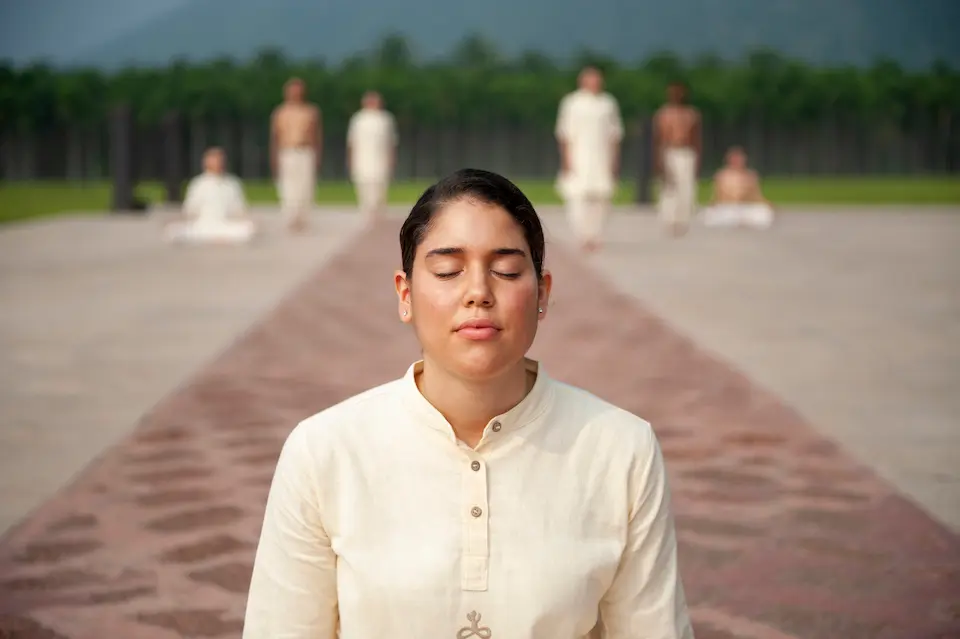
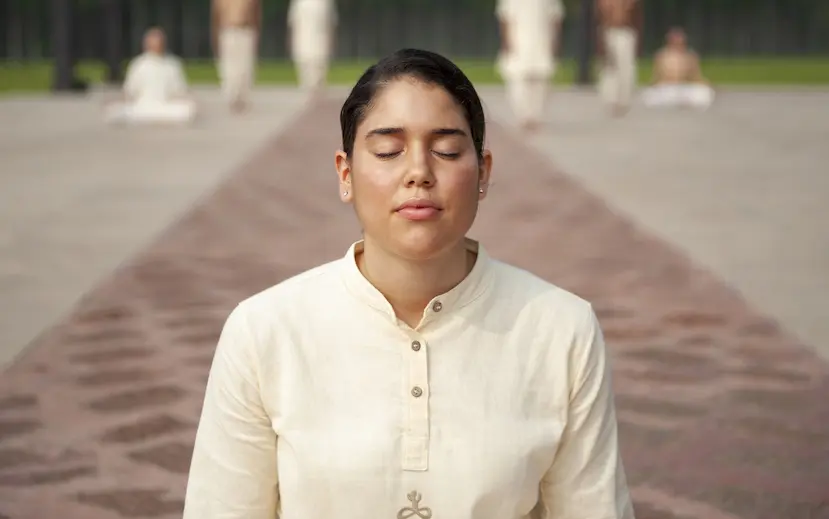
Refine milestone unlock notifications

diff --git a/js/progress.js b/js/progress.js
@@ -458,7 +458,7 @@ async function toggleTodayPractice() {
         total_days: practiceDates.length,
         milestone: milestoneState.milestone.title,
       });
-      showMilestoneUnlockToast(previousMilestoneState, milestoneState);
+      await maybeHandleMilestoneUnlock(previousMilestoneState, milestoneState);
       await maybeSendProgressNotification();
     }
 
@@ -580,7 +580,7 @@ function openSheet(date, isActive) {
           total_days: practiceDates.length,
           milestone: milestoneState.milestone.title,
         });
-        showMilestoneUnlockToast(previousMilestoneState, milestoneState);
+        await maybeHandleMilestoneUnlock(previousMilestoneState, milestoneState);
         await maybeSendProgressNotification();
       }
 
@@ -617,12 +617,69 @@ function showToast(message) {
   }, 2000);
 }
 
-function showMilestoneUnlockToast(previousState, nextState) {
+function getOrCreateMilestoneUnlockBanner() {
+  let banner = document.getElementById("milestoneUnlockBanner");
+
+  if (banner) {
+    return banner;
+  }
+
+  banner = document.createElement("div");
+  banner.id = "milestoneUnlockBanner";
+  banner.className = "milestone-unlock-banner hidden";
+  banner.innerHTML = `
+    <p class="milestone-unlock-banner-title">Congratulations!</p>
+    <p class="milestone-unlock-banner-text"></p>
+  `;
+  document.body.appendChild(banner);
+  return banner;
+}
+
+function showMilestoneUnlockBanner(nextState) {
+  const banner = getOrCreateMilestoneUnlockBanner();
+  const textEl = banner.querySelector(".milestone-unlock-banner-text");
+
+  if (textEl) {
+    textEl.textContent = `You unlocked ${nextState.milestone.level}: ${nextState.milestone.title}.`;
+  }
+
+  banner.classList.remove("hidden", "show");
+
+  setTimeout(() => {
+    banner.classList.add("show");
+  }, 10);
+
+  setTimeout(() => {
+    banner.classList.remove("show");
+
+    setTimeout(() => {
+      banner.classList.add("hidden");
+    }, 260);
+  }, 3200);
+}
+async function maybeSendMilestoneUnlockNotification(nextState) {
+  const notificationsApi = window.pwaNotifications;
+  if (!notificationsApi?.isSupported?.() || notificationsApi.getPermission?.() !== "granted") {
+    return;
+  }
+
+  try {
+    await notificationsApi.sendNotification(
+      "YogaUnnati",
+      `Congratulations! You unlocked ${nextState.milestone.title}.`,
+    );
+  } catch (error) {
+    console.error("Milestone unlock notification error:", error);
+  }
+}
+
+async function maybeHandleMilestoneUnlock(previousState, nextState) {
   if (!previousState || !nextState || nextState.index <= previousState.index) {
     return;
   }
 
-  showToast(`New level unlocked: ${nextState.milestone.title}`);
+  showMilestoneUnlockBanner(nextState);
+  await maybeSendMilestoneUnlockNotification(nextState);
 }
 
 document.getElementById("prevMonth").onclick = () => {
@@ -650,5 +707,10 @@ async function initApp() {
 }
 
 initApp();
+
+
+
+
+
 
 

diff --git a/js/main.js b/js/main.js
@@ -769,12 +769,70 @@ function showToast(message) {
   }, 2200);
 }
 
-function showMilestoneUnlockToast(previousState, nextState) {
+function getOrCreateMilestoneUnlockBanner() {
+  let banner = document.getElementById("milestoneUnlockBanner");
+
+  if (banner) {
+    return banner;
+  }
+
+  banner = document.createElement("div");
+  banner.id = "milestoneUnlockBanner";
+  banner.className = "milestone-unlock-banner hidden";
+  banner.innerHTML = `
+    <p class="milestone-unlock-banner-title">Congratulations!</p>
+    <p class="milestone-unlock-banner-text"></p>
+  `;
+  document.body.appendChild(banner);
+  return banner;
+}
+
+function showMilestoneUnlockBanner(nextState) {
+  const banner = getOrCreateMilestoneUnlockBanner();
+  const textEl = banner.querySelector(".milestone-unlock-banner-text");
+
+  if (textEl) {
+    textEl.textContent = `You unlocked ${nextState.milestone.level}: ${nextState.milestone.title}.`;
+  }
+
+  banner.classList.remove("hidden", "show");
+
+  window.setTimeout(() => {
+    banner.classList.add("show");
+  }, 10);
+
+  window.setTimeout(() => {
+    banner.classList.remove("show");
+
+    window.setTimeout(() => {
+      banner.classList.add("hidden");
+    }, 260);
+  }, 3200);
+}
+
+async function maybeSendMilestoneUnlockNotification(nextState) {
+  const notificationsApi = window.pwaNotifications;
+  if (!notificationsApi?.isSupported?.() || notificationsApi.getPermission?.() !== "granted") {
+    return;
+  }
+
+  try {
+    await notificationsApi.sendNotification(
+      "YogaUnnati",
+      `Congratulations! You unlocked ${nextState.milestone.title}.`,
+    );
+  } catch (error) {
+    console.error("Milestone unlock notification error:", error);
+  }
+}
+
+async function maybeHandleMilestoneUnlock(previousState, nextState) {
   if (!previousState || !nextState || nextState.index <= previousState.index) {
     return;
   }
 
-  showToast(`New level unlocked: ${nextState.milestone.title}`);
+  showMilestoneUnlockBanner(nextState);
+  await maybeSendMilestoneUnlockNotification(nextState);
 }
 
 async function maybeSendProgressNotification() {
@@ -832,7 +890,7 @@ async function markToday() {
   });
   syncHomeUI();
   syncHomeCommunitySnapshotForTodayPractice(true);
-  showMilestoneUnlockToast(previousMilestoneState, milestoneState);
+  await maybeHandleMilestoneUnlock(previousMilestoneState, milestoneState);
   await maybeSendProgressNotification();
 }
 
@@ -1046,5 +1104,9 @@ initBrandTaglineRotation();
 initTomorrowRsvp();
 initTodayPracticeCardLink();
 initApp();
+
+
+
+
 
 

diff --git a/css/styles.css b/css/styles.css
@@ -505,15 +505,15 @@ input {
 
 .milestone-image-energy .program-promo-img,
 .milestone-image-energy .milestone-promo-img {
-  object-position: 36% 26%;
-  transform: scale(1.15);
+  object-position: 46% 24%;
+  transform: scale(1.24);
   filter: contrast(1.03) brightness(1.01);
 }
 
 .milestone-image-calm .program-promo-img,
 .milestone-image-calm .milestone-promo-img {
-  object-position: center 16%;
-  transform: scale(1.11);
+  object-position: center 12%;
+  transform: scale(1.2);
   filter: contrast(1.03) brightness(1.01);
 }
 
@@ -847,6 +847,41 @@ input {
 .notifications-popup-btn.primary {
   background: rgba(209, 134, 74, 0.16);
   color: #b1682d;
+}
+.milestone-unlock-banner {
+  position: fixed;
+  top: calc(18px + var(--safe-top));
+  left: 50%;
+  width: min(calc(100% - 28px), 420px);
+  transform: translateX(-50%) translateY(-10px);
+  padding: 14px 16px;
+  border-radius: 20px;
+  background: rgba(255, 250, 243, 0.97);
+  border: 1px solid rgba(209, 134, 74, 0.18);
+  box-shadow: 0 18px 40px rgba(62, 45, 28, 0.18);
+  z-index: 1200;
+  opacity: 0;
+  transition: opacity 0.26s ease, transform 0.26s ease;
+}
+
+.milestone-unlock-banner.show {
+  opacity: 1;
+  transform: translateX(-50%) translateY(0);
+}
+
+.milestone-unlock-banner-title {
+  margin: 0;
+  font-family: 'Sora', sans-serif;
+  font-size: 0.96rem;
+  font-weight: 600;
+  color: var(--accent-deep);
+}
+
+.milestone-unlock-banner-text {
+  margin: 6px 0 0;
+  color: var(--text-soft);
+  font-size: 0.86rem;
+  line-height: 1.45;
 }
 
 .week-card-arrow {
@@ -3195,6 +3230,10 @@ input {
     font-size: 0.72rem;
   }
 }
+
+
+
+
 
 
 

diff --git a/js/practiceData.js b/js/practiceData.js
@@ -4,7 +4,7 @@ const REMOTE_REFRESH_PREFIX = "remote_refresh_v1:";
 const APP_MILESTONES = [
   { days: 7, title: "Sankalpa", level: "Level 1", desc: "Committed Beginning", icon: "flower", image: "images/sankalpa.webp", imageClass: "milestone-image-stiffness" },
   { days: 21, title: "Sthirata", level: "Level 2", desc: "Balanced Body, Steady Mind", icon: "mountain", image: "images/sthirata.webp", imageClass: "milestone-image-strength" },
-  { days: 48, title: "Ananda", level: "Level 3", desc: "Joy, Ease and Vitality", icon: "sun", image: "images/Ananda.jpg", imageClass: "milestone-image-energy" },
+  { days: 48, title: "Ananda", level: "Level 3", desc: "Joy, Ease and Vitality", icon: "sun", image: "images/ananda.webp", imageClass: "milestone-image-energy" },
   { days: 90, title: "Paramananda", level: "Level 4", desc: "Deeper Bliss and lasting Stillness", icon: "lotus", image: "images/calm.webp", imageClass: "milestone-image-calm" }
 ];
 
@@ -347,4 +347,5 @@ function getPracticeProgressNotificationMessage(userId, practiceDates) {
   const dayLabel = state.remainingDays === 1 ? "day" : "days";
   return `Going good. Your next milestone in ${state.remainingDays} ${dayLabel}.`;
 }
+
 

diff --git a/sw.js b/sw.js
@@ -1,4 +1,4 @@
-const CACHE_NAME = "yogaunnati-pwa-v21";
+const CACHE_NAME = "yogaunnati-pwa-v22";
 const APP_SHELL_PATHS = [
   "",
   "install.html",
@@ -32,6 +32,7 @@ const APP_SHELL_PATHS = [
   "images/sankalpa.webp",
   "images/sthirata.webp",
   "images/calm.webp",
+  "images/ananda.webp",
   "images/install-android.webp",
   "images/install-ios.webp",
   "images/pwa-192.png",
@@ -233,6 +234,7 @@ self.addEventListener("fetch", (event) => {
     })
   );
 });
+
 
 
 
